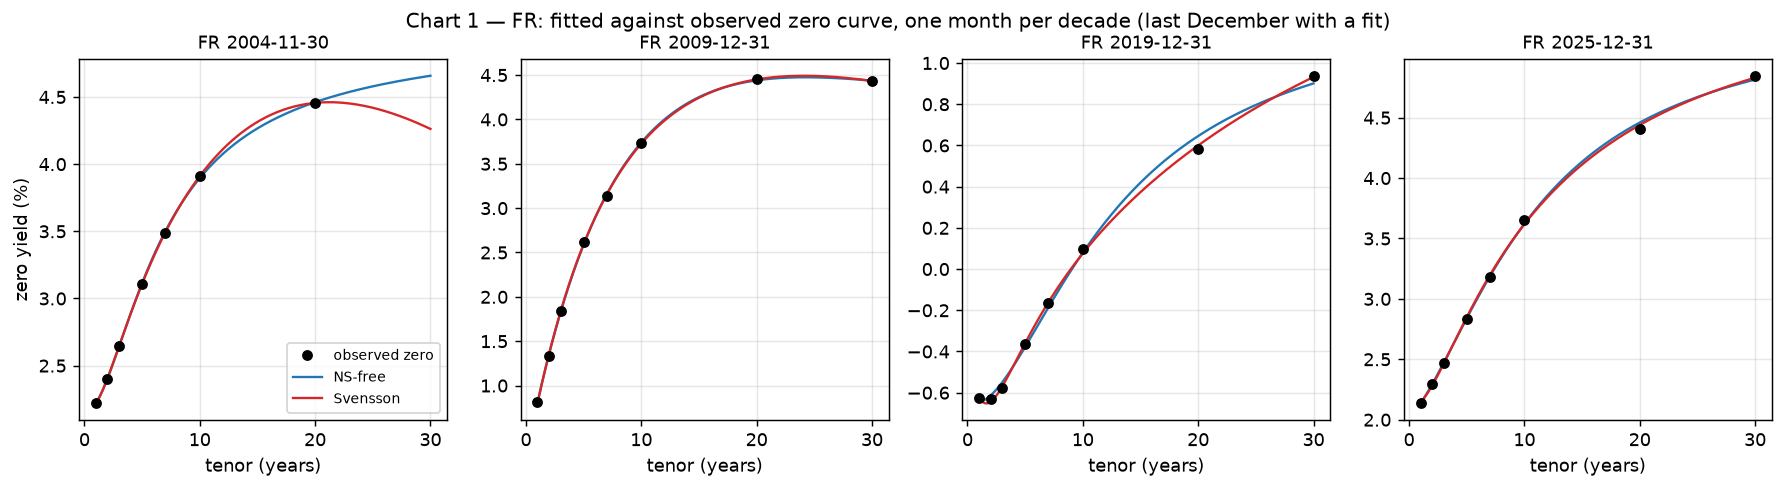
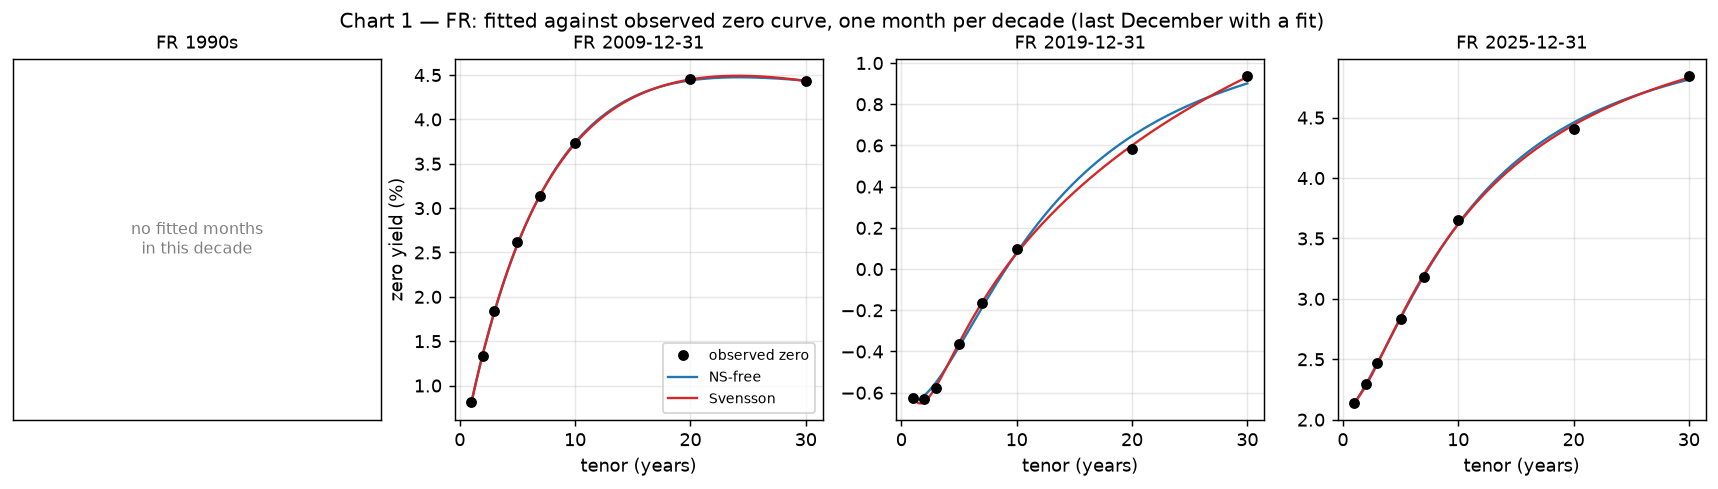
Session 2 fix: Chart 1 draws an empty panel for a decade with no fitted month
chart1_dates emits no row where a country has no fitted month in a decade, so
chart1_dates.csv holds only real dates -- 23 rows, not 24, FR 1990 gone -- and
chart1_fit captions that panel "no fitted months in this decade". The fallback
it replaces put France's 2004-11-30 curve under a panel headed by the 1990s.

Where a decade has months but no fitted December, its last fitted month is still
used. Two consequences: the legend goes on the first panel that has data, since
FR's panel 0 is now the empty one; and a country with no fitted month in any
configured decade gets no figure rather than a sheet of empty panels.

diff --git a/src/curvecarry/charts.py b/src/curvecarry/charts.py
@@ -56,6 +56,7 @@ RMSE_STYLE = {
     "sv": ("Svensson", "tab:red"),
 }
 DPI = 130
+NO_FIT_TEXT = "no fitted months\nin this decade"  # chart 1, a decade the country never reaches
 
 
 def _save(fig: plt.Figure, path: Path) -> Path:
@@ -68,18 +69,22 @@ def _save(fig: plt.Figure, path: Path) -> Path:
 def chart1_dates(fitted: pd.DataFrame, decades: list[int]) -> pd.DataFrame:
     """One date per country per decade: the last December month end with a fit.
 
-    If a country has no fitted December in a decade, the **earliest fitted month**
-    of that country is used instead (PLAN.md 2.4). A decade the country does not
-    reach at all still gets that fallback row, so every country has one panel per
-    decade and the figures are comparable.
+    Where a decade has no fitted December but the country does have fitted months
+    in it, that decade's **last fitted month** is used. Where the country has no
+    fitted month in the decade at all, **no row is emitted**: the file holds only
+    real dates, and ``chart1_fit`` draws an empty panel for the missing decade
+    (session 2 fix round; the earlier fallback to the country's earliest month
+    put a date in one decade's panel that belonged to another).
     """
     rows = []
     for country, g in fitted.groupby("country", sort=True):
         dates = pd.DatetimeIndex(sorted(g["date"].unique()))
-        first = dates.min()
         for decade in decades:
-            dec = dates[(dates.year >= decade) & (dates.year < decade + 10) & (dates.month == 12)]
-            rows.append((country, int(decade), dec.max() if len(dec) else first))
+            inside = dates[(dates.year >= decade) & (dates.year < decade + 10)]
+            if not len(inside):
+                continue
+            december = inside[inside.month == 12]
+            rows.append((country, int(decade), (december if len(december) else inside).max()))
     out = pd.DataFrame(rows, columns=CHART1_DATES_COLUMNS)
     return out.sort_values(["country", "decade"]).reset_index(drop=True)
 
@@ -108,19 +113,41 @@ def chart1_fit(
     zero_panel: pd.DataFrame,
     params: pd.DataFrame,
     dates: pd.DataFrame,
+    decades: list[int],
     out_dir: Path = FIGURES,
 ) -> list[Path]:
-    """One figure per country, 4 panels: observed standard tenors, NS-free, Svensson."""
+    """One figure per country, one panel per decade: observed tenors, NS-free, Svensson.
+
+    A decade with no row in ``dates`` — the country has no fitted month in it —
+    gets an empty panel saying so, rather than a repeat of another decade's
+    curve. A country with no row for **any** configured decade has no month to
+    draw and gets no figure at all.
+    """
     out_dir = Path(out_dir)
     obs = nelson_siegel.standard_points(zero_panel)
     grid = np.linspace(*TENOR_GRID, 300)
     paths = []
     for country, d in dates.groupby("country", sort=True):
-        d = d.sort_values("decade")
-        fig, axes = plt.subplots(1, len(d), figsize=(4.2 * len(d), 3.6), sharey=False)
+        by_decade = dict(zip(d["decade"], d["date"], strict=True))
+        fig, axes = plt.subplots(1, len(decades), figsize=(4.2 * len(decades), 3.6), sharey=False)
         axes = np.atleast_1d(axes)
-        for ax, (_, row) in zip(axes, d.iterrows(), strict=True):
-            date = pd.Timestamp(row["date"])
+        for ax, decade in zip(axes, decades, strict=True):
+            if int(decade) not in by_decade:
+                ax.set_title(f"{country} {decade}s", fontsize=10)
+                ax.text(
+                    0.5,
+                    0.5,
+                    NO_FIT_TEXT,
+                    ha="center",
+                    va="center",
+                    fontsize=9,
+                    color="grey",
+                    transform=ax.transAxes,
+                )
+                ax.set_xticks([])
+                ax.set_yticks([])
+                continue
+            date = pd.Timestamp(by_decade[int(decade)])
             o = obs[(obs["country"] == country) & (obs["date"] == date)].sort_values("tenor_years")
             ax.plot(
                 o["tenor_years"],
@@ -138,8 +165,9 @@ def chart1_fit(
             ax.set_title(f"{country} {date.date()}", fontsize=10)
             ax.set_xlabel("tenor (years)")
             ax.grid(alpha=0.3)
-        axes[0].set_ylabel("zero yield (%)")
-        axes[0].legend(fontsize=8, loc="best")
+        drawn = [ax for ax, dec in zip(axes, decades, strict=True) if int(dec) in by_decade]
+        drawn[0].set_ylabel("zero yield (%)")
+        drawn[0].legend(fontsize=8, loc="best")  # the first panel that has something in it
         fig.suptitle(
             f"Chart 1 — {country}: fitted against observed zero curve, "
             "one month per decade (last December with a fit)",
@@ -269,10 +297,11 @@ def build(cfg: dict, processed: Path | None = None, out_dir: Path = FIGURES) -> 
     fitted = pd.read_parquet(p / "ns_fitted.parquet")
     params = pd.concat([ns_params, sv_params], ignore_index=True)
 
-    dates = chart1_dates(fitted, list(cfg["report"]["chart1_decades"]))
+    decades = [int(x) for x in cfg["report"]["chart1_decades"]]
+    dates = chart1_dates(fitted, decades)
     checks.CHECKS.mkdir(parents=True, exist_ok=True)
     dates.to_csv(checks.CHART1_DATES, index=False, lineterminator="\n")
-    paths = chart1_fit(zero, params, dates, out_dir)
+    paths = chart1_fit(zero, params, dates, decades, out_dir)
     paths.append(chart1_rmse(params, Path(out_dir) / "chart1_rmse.png"))
     path3, excluded = chart3_betas(ns_params, Path(out_dir) / "chart3_betas.png")
     excluded.to_csv(checks.CHART3_EXCLUDED, index=False, lineterminator="\n")

diff --git a/tests/test_charts.py b/tests/test_charts.py
@@ -17,22 +17,24 @@ def _fitted(dates: list[str], country: str = "XX") -> pd.DataFrame:
 
 
 def test_chart1_dates_rule() -> None:
-    """Last December with a fit per decade; the earliest fitted month for a missing decade."""
-    # a country with Decembers in the 2000s and 2010s only, and a first month in 2003-07
+    """Last December with a fit per decade; no row at all for a decade the country misses."""
+    # Decembers in the 2000s and 2010s; a 2020s month that is not a December; nothing in the 1990s
     dates = ["2003-07-31", "2005-12-31", "2009-12-31", "2014-12-31", "2019-12-31", "2021-06-30"]
-    got = charts.chart1_dates(_fitted(dates), DECADES).set_index("decade")["date"]
+    out = charts.chart1_dates(_fitted(dates), DECADES)
+    got = out.set_index("decade")["date"]
     assert got[2000] == pd.Timestamp("2009-12-31")  # the LAST December of the decade
     assert got[2010] == pd.Timestamp("2019-12-31")
-    assert got[1990] == pd.Timestamp("2003-07-31")  # decade absent -> earliest fitted month
-    assert got[2020] == pd.Timestamp("2003-07-31")  # 2021-06 is not a December -> same fallback
+    assert 1990 not in got.index  # no fitted month in the decade -> no row (fix round)
+    assert got[2020] == pd.Timestamp("2021-06-30")  # months but no December -> last month of it
+    assert len(out) == 3
+    assert out["date"].notna().all()  # the file holds only real dates
 
-    # two countries get independent fallbacks
+    # two countries, each with its own missing decades
     two = pd.concat([_fitted(dates, "AA"), _fitted(["2015-12-31"], "BB")], ignore_index=True)
-    out = charts.chart1_dates(two, DECADES)
-    assert len(out) == len(DECADES) * 2
-    bb = out[out["country"] == "BB"].set_index("decade")["date"]
-    assert bb[2010] == pd.Timestamp("2015-12-31")
-    assert bb[1990] == bb[2000] == bb[2020] == pd.Timestamp("2015-12-31")
+    both = charts.chart1_dates(two, DECADES)
+    bb = both[both["country"] == "BB"].set_index("decade")["date"]
+    assert bb.index.tolist() == [2010] and bb[2010] == pd.Timestamp("2015-12-31")
+    assert len(both) == 4
 
 
 def _panel_and_params(country: str = "XX") -> tuple[pd.DataFrame, pd.DataFrame, pd.DataFrame]:
@@ -101,7 +103,8 @@ def test_chart_functions_write_files(tmp_path: Path) -> None:
     zero, ns, sv = _panel_and_params()
     params = pd.concat([ns, sv], ignore_index=True)
     dates = charts.chart1_dates(params, DECADES)
-    paths = charts.chart1_fit(zero, params, dates, tmp_path)
+    assert sorted(dates["decade"]) == [2000, 2010]  # the fixture has no 1990s or 2020s month
+    paths = charts.chart1_fit(zero, params, dates, DECADES, tmp_path)
     assert len(paths) == 1 and paths[0].name == "chart1_fit_xx.png"
     p2 = charts.chart1_rmse(params, tmp_path / "chart1_rmse.png")
     p3, excluded = charts.chart3_betas(
@@ -111,6 +114,25 @@ def test_chart_functions_write_files(tmp_path: Path) -> None:
         assert p.exists() and p.stat().st_size > 0
     assert len(excluded) == 2  # both ns_free months are degenerate in this fixture
     assert set(excluded["reason"]) == {"bound"}
+
+
+def test_chart1_empty_panel_for_a_missing_decade(tmp_path: Path) -> None:
+    """A decade with no fitted month gets an empty panel, not another decade's curve.
+
+    The figure still has one panel per configured decade, so the six countries
+    stay comparable side by side (session 2 fix round).
+    """
+    zero, ns, sv = _panel_and_params()
+    params = pd.concat([ns, sv], ignore_index=True)
+    dates = charts.chart1_dates(params, DECADES)
+    assert 1990 not in set(dates["decade"]) and 2020 not in set(dates["decade"])
+    paths = charts.chart1_fit(zero, params, dates, DECADES, tmp_path)
+    assert len(paths) == 1 and paths[0].stat().st_size > 0
+    # a country with no fitted month in ANY configured decade has nothing to draw
+    far = charts.chart1_dates(params, [1950])
+    assert far.empty
+    assert charts.chart1_fit(zero, params, far, [1950], tmp_path / "empty") == []
+    assert charts.NO_FIT_TEXT.count(chr(10)) == 1  # two lines of centred grey text
 
 
 def test_chart1_draws_the_model_not_a_polyline() -> None:

diff --git a/review/2.4.md b/review/2.4.md
@@ -3,11 +3,11 @@
 Date: 2026-09-23   Commit: the `Step 2.4` commit (sha listed in the session review)   Tests: 160/160
 
 ## What changed
-- `src/curvecarry/charts.py` (new), matplotlib on `Agg`. `chart1_dates(fitted, decades)` — per country and decade, the last December month end with a fit, falling back to that country's earliest fitted month where the decade has no fitted December; → `data/checks/chart1_dates.csv` (24 rows). `fitted_curve(params, country, date, model, tau)` — the fitted model off its parameter row at arbitrary maturities. `chart1_fit(zero_panel, params, dates, out_dir)` — one figure per country, 4 panels, observed standard-tenor zeros as points with the NS-free and Svensson curves over them → `reports/figures/chart1_fit_<cc>.png` × 6. `chart1_rmse(params, out)` — 6 panels, in-sample RMSE (bp) by month, the three models, log y → `chart1_rmse.png`. `chart3_series`, `chart3_excluded`, `chart3_betas` → `chart3_betas.png` and `data/checks/chart3_excluded.csv` (285 rows, with `reason`).
+- `src/curvecarry/charts.py` (new), matplotlib on `Agg`. `chart1_dates(fitted, decades)` — per country and decade, the last December month end with a fit, falling back to that decade's last fitted month where it has no fitted December, and emitting **no row** where the country has no fitted month in the decade at all; → `data/checks/chart1_dates.csv` (23 rows). `fitted_curve(params, country, date, model, tau)` — the fitted model off its parameter row at arbitrary maturities. `chart1_fit(zero_panel, params, dates, decades, out_dir)` — one figure per country, one panel per configured decade, observed standard-tenor zeros as points with the NS-free and Svensson curves over them, and an empty captioned panel for a decade with no fitted month → `reports/figures/chart1_fit_<cc>.png` × 6. `chart1_rmse(params, out)` — 6 panels, in-sample RMSE (bp) by month, the three models, log y → `chart1_rmse.png`. `chart3_series`, `chart3_excluded`, `chart3_betas` → `chart3_betas.png` and `data/checks/chart3_excluded.csv` (285 rows, with `reason`).
 - `src/curvecarry/cli.py` — `report --charts 1,3`; `report` leaves `NOT_BUILT`, and `CHARTS_BUILT = {"1", "3"}` rejects any other chart number by name, pointing at step 6.4.
 - `src/curvecarry/checks.py` — `CHART3_EXCLUDED`.
 - `PLAN.md` 2.4 — the Chart 3 amendment written in full, with its reason and the third test.
-- `tests/test_charts.py` (4): the plan's two, the amendment's `test_chart3_excludes_degenerate_months_as_gaps`, and `test_chart1_draws_the_model_not_a_polyline` (deviation 1).
+- `tests/test_charts.py` (5): the plan's two, the amendment's `test_chart3_excludes_degenerate_months_as_gaps`, `test_chart1_draws_the_model_not_a_polyline` (deviation 1) and `test_chart1_empty_panel_for_a_missing_decade` (deviation 3).
 
 **Session 2 fix round (2026-09-23): the gap criterion is `ns_degenerate`, not `lam_at_bound`.** `ns_params.parquet` gains `ns_degenerate` = `lam_at_bound` **or** `max(|β0|, |β1|, |β2|) > 0.5` (50 percentage points of yield — a level factor of −22% is not a level factor), on every model; `lam_at_bound` is kept as its own column because `decisions/lambda_bound.md` refers to it. Chart 3's lower panel gaps on `ns_degenerate`, and `chart3_excluded.csv` gains a `reason` column: `bound`, `beta` or `both`. This closes the second finding below, which `lam_at_bound` alone had left open. **`ns_dl` trips neither criterion in any month of any country** — its largest max |β| is 0.3365 (GB) against the 0.5 threshold — so the fixed-λ panel has no degenerate month and is gapless by fact, not only by construction. Full counts in the #13 comment.
 
@@ -15,9 +15,9 @@ Date: 2026-09-23   Commit: the `Step 2.4` commit (sha listed in the session revi
 
 **Deviation 1, stated in full: Chart 1 draws the fitted models as curves, not as polylines through the 8 fitted tenors.** The plan says "observed points, NS-free line, Svensson line". Drawing the line through `ns_fitted.parquet`'s 8 points joins them with straight segments, which is a picture of linear interpolation, not of Nelson-Siegel or Svensson — and the shape the model puts *between* the observed points is the only thing Chart 1 can show that the RMSE table cannot. `chart1_fit` therefore evaluates each model from its parameter row on a 300-point grid from 1 to 30 years (`fitted_curve`). On US 1999-12-31 the two readings differ visibly: the polyline showed NS-free flat from 10y to 20y, the curve shows a hump peaking near 14y at 6.92%, and Svensson's second hump at 16y at 7.08% only exists in the curve version. `ns_fitted.parquet` is unchanged and still holds the 8 fitted tenors; nothing else reads the dense grid.
 
-**Deviation 2.** Four tests rather than the plan's two — the third is the amendment's, the fourth covers deviation 1.
+**Deviation 2.** Five tests rather than the plan's two — the third is the amendment's, the fourth covers deviation 1.
 
-**Deviation 3.** `chart1_dates` gives a country a row for a decade it does not reach at all (the fallback month), so every figure has 4 panels and the six countries are comparable side by side. FR's 1990 panel is therefore 2004-11-30, its first month, repeated from its 2000s panel's neighbourhood; the panel title carries the real date, so nothing is mislabelled.
+**Deviation 3, revised in the session 2 fix round (2026-09-23).** The plan says a country lacking a decade falls back to its earliest fitted month. It no longer does: **`chart1_dates` emits no row for a decade in which the country has no fitted month**, so `chart1_dates.csv` holds only real dates (23 rows, not 24 — FR 1990 is gone), and `chart1_fit` draws an **empty panel captioned "no fitted months in this decade"** for the gap. The fallback put France's 2004-11-30 curve under a panel headed by the 1990s; an empty panel says the true thing instead. Every figure still has one panel per configured decade, so the six countries stay comparable side by side. Two consequences: the legend now goes on the first panel that has data rather than on panel 0 (FR's panel 0 is the empty one), and a country with no fitted month in *any* configured decade gets no figure at all rather than a sheet of empty panels. What survives of the original rule: where a decade has months but no fitted December, its **last fitted month** is used — which is why the plan's own 24th row was never reachable for FR in the first place.
 
 ## Findings
 
@@ -51,27 +51,27 @@ Date: 2026-09-23   Commit: the `Step 2.4` commit (sha listed in the session revi
 > FR, 262, 12, 4.6%, 0
 > JP, 380, 5, 1.3%, 0
 
-> Claim: `chart1_dates` picks the last December of each decade that has a fit, and falls back to the country's earliest fitted month where there is none.
-> Number: 24 rows, 6 countries × 4 decades. Every row is 31 December except FR 1990, which is 2004-11-30 — France's first fitted month, its curve starting in November 2004.
+> Claim: `chart1_dates` picks the last December of each decade that has a fit, and emits no row for a decade the country never reaches.
+> Number: **23** rows — 5 countries × 4 decades plus FR × 3. Every row is a 31 December. France's curve starts 2004-11-30, so it has no fitted month in the 1990s and no 1990 row; its figure's first panel is empty and says so.
 > Rows (country, decade, date):
 > US, 1990, 1999-12-31
 > US, 2020, 2025-12-31
-> FR, 1990, 2004-11-30   (fallback: no fitted December in the 1990s)
-> FR, 2000, 2009-12-31
+> FR, 2000, 2009-12-31   (FR has no 1990 row at all)
+> FR, 2020, 2025-12-31
 > DE, 1990, 1999-12-31
 > JP, 2010, 2019-12-31
 
 > Claim: the eight figures and both check files exist and are non-empty, and the chart functions are exercised on synthetic frames rather than on the repo's data.
-> Number: 8 pngs, 104 KB to 561 KB. `chart1_dates.csv` 24 rows, `chart3_excluded.csv` 285 rows. `tests/test_charts.py` builds its own two-month panel in `tmp_path`; no test reads `data/`.
+> Number: 8 pngs, 91 KB to 591 KB. `chart1_dates.csv` 23 rows, `chart3_excluded.csv` 285 rows. `tests/test_charts.py` builds its own two-month panel in `tmp_path`; no test reads `data/`.
 > Rows (file, bytes):
 > reports/figures/chart1_fit_ca.png, 121,281
 > reports/figures/chart1_fit_de.png, 104,357
-> reports/figures/chart1_fit_fr.png, 103,844
+> reports/figures/chart1_fit_fr.png, 90,695   (3 panels of curve, 1 empty)
 > reports/figures/chart1_fit_gb.png, 112,432
 > reports/figures/chart1_fit_jp.png, 103,528
 > reports/figures/chart1_fit_us.png, 109,675
 > reports/figures/chart1_rmse.png, 527,894
-> reports/figures/chart3_betas.png, 560,564
+> reports/figures/chart3_betas.png, 590,807
 
 ## Not verified
 - **Nothing asserts that the dense Chart 1 curve agrees with `ns_fitted.parquet` at the 8 tenors.** They agree by construction — the same loadings and the same betas — and `test_chart1_draws_the_model_not_a_polyline` checks only that the curve is defined off-node and that the Svensson curve differs from the NS one. A test comparing the two at the fitted tenors would settle it.

diff --git a/PLAN.md b/PLAN.md
@@ -1090,10 +1090,15 @@ happens for a row outside it.
   - `chart1_fit(zero_panel, fitted, dates: dict[str, list[pd.Timestamp]], out_dir) -> list[Path]`:
     per country one figure `reports/figures/chart1_fit_<cc>.png` with 4
     panels: observed points, NS-free line, Svensson line, on the 4 dates.
-    Dates: for each decade in `config.report.chart1_decades` the last
-    December month end with a fit; if a country lacks that decade, the
-    earliest fitted month. The chosen dates go to
-    `data/checks/chart1_dates.csv` (`country, decade, date`).
+    Dates: for each decade in `config.report.chart1_decades` the last December
+    month end with a fit; where a decade has fitted months but no fitted
+    December, its last fitted month. **Amended 2026-09-23 (session 2 fix
+    round):** where a country has **no** fitted month in a decade, `chart1_dates`
+    emits **no row** — the file holds only real dates — and the panel is drawn
+    empty, captioned "no fitted months in this decade". The earlier rule fell
+    back to the country's earliest fitted month, which put France's 2004-11-30
+    curve under a panel headed by the 1990s. The chosen dates go to
+    `data/checks/chart1_dates.csv` (`country, decade, date`; 23 rows, not 24).
   - `chart1_rmse(ns_params, sv_params, out) -> Path`:
     `reports/figures/chart1_rmse.png`, 6 panels, RMSE (bp) by month, NS-free
     vs NS-DL vs Svensson.
